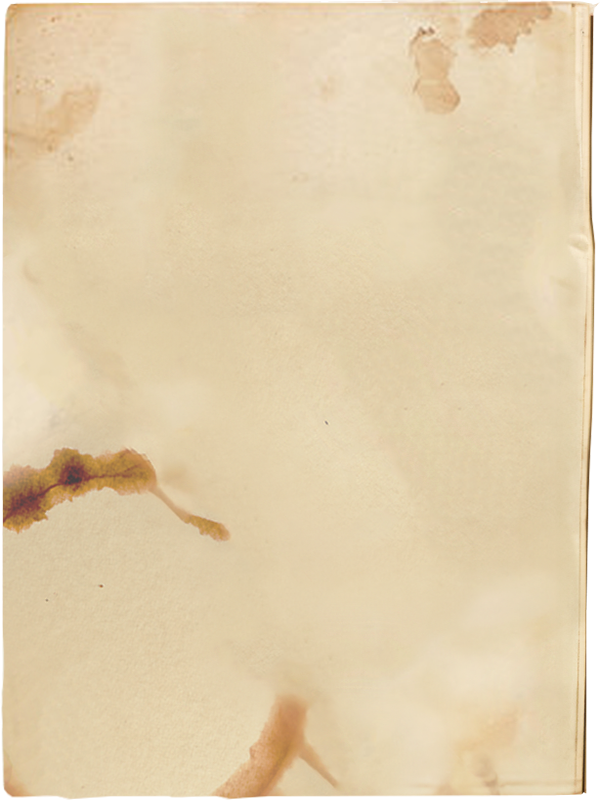
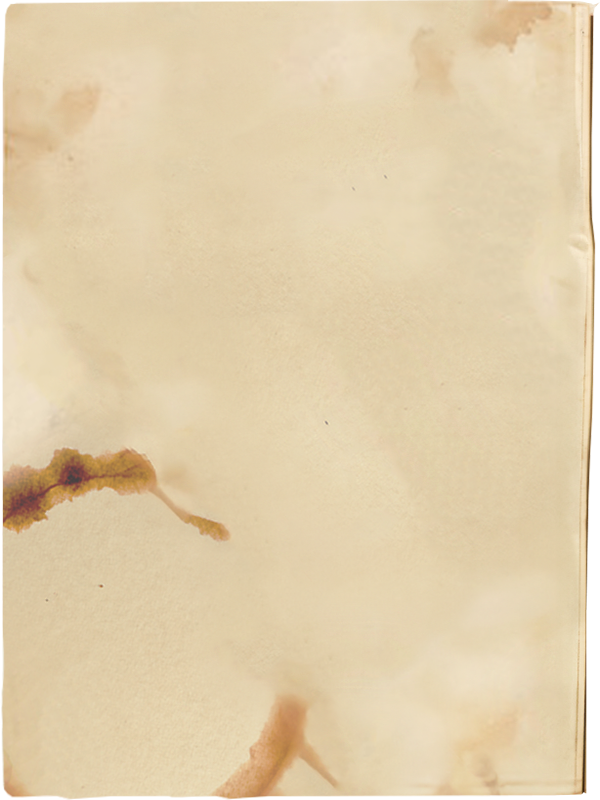
Cleaned up the stained coffee paper images and added some additional information to my about section.

diff --git a/index.html b/index.html
@@ -88,11 +88,11 @@
                         <h2>Skills Foraged</h2>
                         <div class="container flex infobox">
                             <div class="infobox-icon">1.</div>
-                            <div class="infobox-content"><h4>HTML, CSS, and JavaScript</h4><p>Minor PHP knowledge as well.</p></div>
+                            <div class="infobox-content"><h4>HTML5, CSS3, and JavaScript</h4><p>Minor PHP knowledge as well.</p></div>
                         </div>
                         <div class="container flex infobox">
                             <div class="infobox-icon">2.</div>
-                            <div class="infobox-content"><h4>Wordpress & OceanWP Theme</h4><p>Alongside Elementor, Avada, and Genesis Frameworks.</p></div>
+                            <div class="infobox-content"><h4>Wordpress / OceanWP Theme</h4><p>Alongside Elementor, Avada, and Genesis Frameworks.</p></div>
                         </div>
                         <div class="container flex infobox">
                             <div class="infobox-icon">3.</div>
@@ -100,7 +100,7 @@
                         </div>
                         <div class="container flex infobox">
                             <div class="infobox-icon">4.</div>
-                            <div class="infobox-content"><h4>Adobe Software</h4><p>Photoshop, Illustrator, Premier, After Effects, InDesign.</p></div>
+                            <div class="infobox-content"><h4>Software</h4><p>Photoshop, Illustrator, VS Code, InDesign, Premier, After Effects.</p></div>
                         </div>
                         <div class="container flex infobox">
                             <div class="infobox-icon">5.</div>
